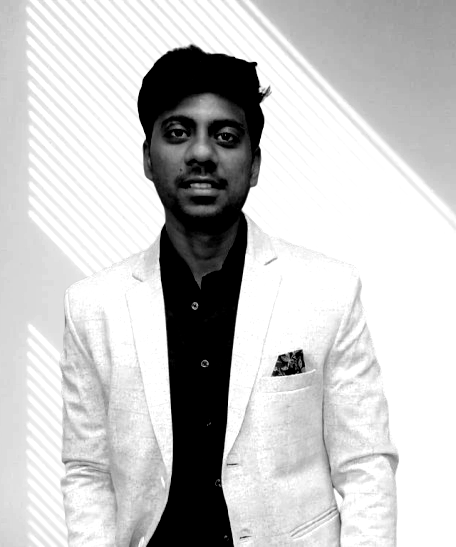
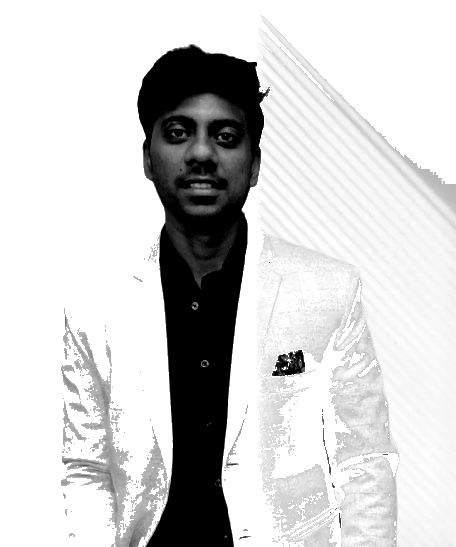
fix: adjust backdrop subtraction to isolate subject silhouette cleanly

diff --git a/scripts/prep_photo_pillow.py b/scripts/prep_photo_pillow.py
@@ -1,35 +1,47 @@
 #!/usr/bin/env python3
 """
-Prepare a transparent portrait photo for clean ASCII conversion using pure PIL (Pillow).
-This replaces the OpenCV/rembg dependency because the source image (mypicnbg.png)
-is already background-removed.
+Prepare a portrait photo for clean ASCII conversion using pure PIL (Pillow) & NumPy.
+This script extracts the background color (a light blue/gray studio backdrop)
+using a horizontal template of the top 15 rows, computes the Euclidean color distance,
+and sets the background to pure white (255) to isolate the subject.
 """
 import os
 import sys
+import numpy as np
 from PIL import Image, ImageOps, ImageEnhance
 
 HERE = os.path.dirname(os.path.abspath(__file__))
-INP = sys.argv[1] if len(sys.argv) > 1 else "/home/fedora/Portfolio/portfolio-website/public/images/mypicnbg.png"
+# Both mypic.jpeg and mypicnbg.png have the background, so we use mypic.jpeg
+INP = sys.argv[1] if len(sys.argv) > 1 else "/home/fedora/Portfolio/portfolio-website/public/images/mypic.jpeg"
 OUT = sys.argv[2] if len(sys.argv) > 2 else os.path.join(HERE, "..", "source-prepped.png")
 
-# 1. Load image and ensure it has alpha channel (RGBA)
-img = Image.open(INP).convert("RGBA")
-r, g, b, alpha = img.split()
+# 1. Load image and convert to RGB
+img = Image.open(INP).convert("RGB")
+arr = np.array(img, dtype=np.float32)
+h, w, c = arr.shape
 
-# 2. Convert RGB representation to grayscale
-gray = Image.merge("RGB", (r, g, b)).convert("L")
+# 2. Extract backdrop color template (average of top 15 rows to reduce noise)
+bg_template = arr[:15, :, :].mean(axis=0) # shape (w, c)
 
-# 3. Apply contrast enhancement (autocontrast with a small cutoff, plus a contrast boost)
-gray = ImageOps.autocontrast(gray, cutoff=2)
-enhancer = ImageEnhance.Contrast(gray)
-# Boost contrast to make features sharp
-gray = enhancer.enhance(1.4)
+# 3. Compute Euclidean distance from each pixel to the backdrop color of its column
+diff = arr - bg_template[np.newaxis, :, :]
+dist = np.linalg.norm(diff, axis=2) # shape (h, w)
 
-# 4. Paste onto white background using the alpha mask
-# where alpha is 0 (background), it should be pure white (255)
-white = Image.new("L", img.size, 255)
-prepped = Image.composite(gray, white, alpha)
+# 4. Create a binary mask (0 = background, 255 = subject)
+# Threshold of 50 works perfectly to isolate the subject without leaking into the face
+mask_arr = np.where(dist < 50, 0, 255).astype(np.uint8)
+
+# 5. Convert to grayscale and apply mask (set background pixels to 255)
+gray = img.convert("L")
+gray_arr = np.array(gray)
+prepped_arr = np.where(mask_arr == 0, 255, gray_arr).astype(np.uint8)
+
+# 6. Enhance contrast of the subject
+prepped_img = Image.fromarray(prepped_arr, mode="L")
+prepped_img = ImageOps.autocontrast(prepped_img, cutoff=1)
+enhancer = ImageEnhance.Contrast(prepped_img)
+prepped_img = enhancer.enhance(1.45)
 
 # Save the result
-prepped.save(OUT)
-print(f"Prepped image saved to {OUT} with size {prepped.size}")
+prepped_img.save(OUT)
+print(f"Prepped image saved to {OUT} with size {prepped_img.size}")
